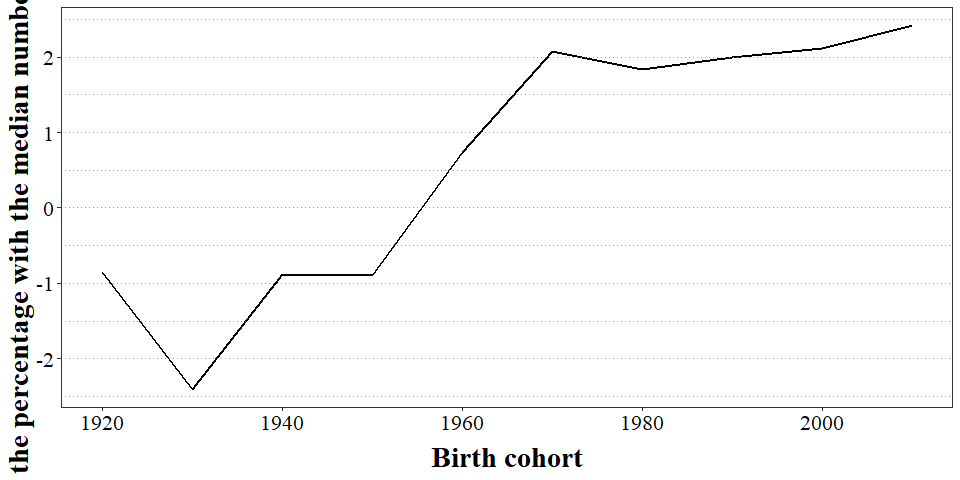
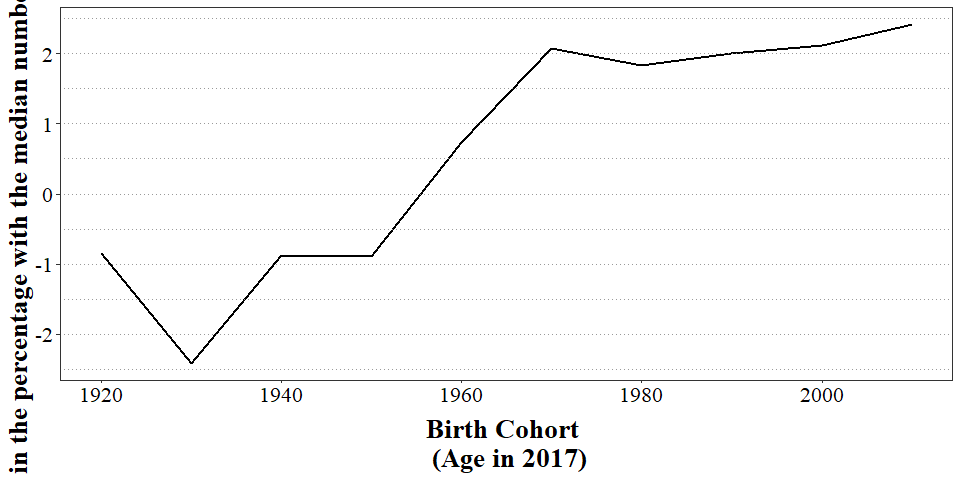
Correct label of plot

diff --git a/3_Compare_Figures.md b/3_Compare_Figures.md
@@ -3,7 +3,7 @@ estimates on micro-level data on kin relations for the Swedish
 population
 ================
 …
-2024-05-22
+2024-06-03
 
 #### Fig. 1b: Average number of living and dead grandchildren in 2017 by sex and birth cohort. Microsimulation - SOCSIM (left) vs Registers - Swedish Kinship Universe (right)
 
